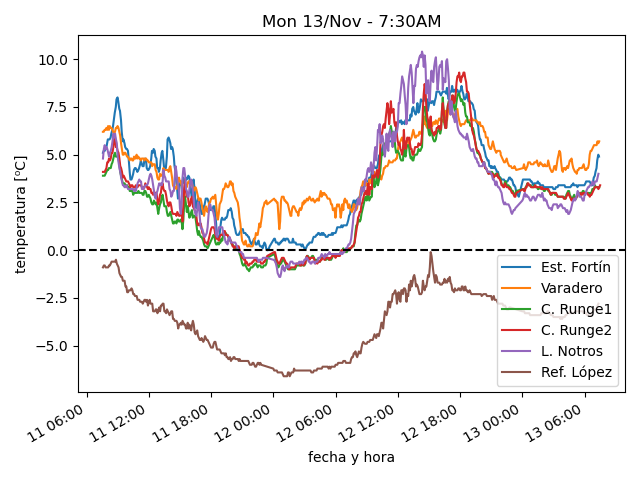
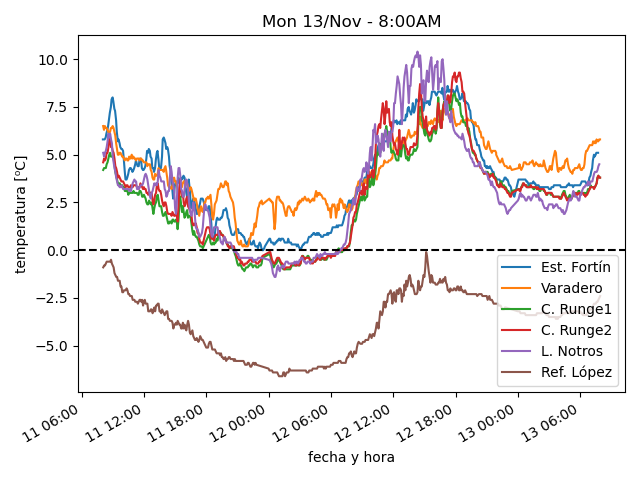
actualiza datos

diff --git a/estaciones/estacion2.html b/estaciones/estacion2.html
@@ -18,32 +18,32 @@
     </tr>
     <tr>
      <td class="stats_data">
-      7:24AM
+      7:54AM
      </td>
     </tr>
     <tr>
      <td class="stats_data">
-      5.7⁰C
+      5.8⁰C
      </td>
     </tr>
     <tr>
      <td class="stats_data">
-      1.8⁰C
+      2.5⁰C
      </td>
     </tr>
     <tr>
      <td class="stats_data">
-      76.3%
+      79.2%
      </td>
     </tr>
     <tr>
      <td class="stats_data">
-      1020.32hPa
+      1020.01hPa
      </td>
     </tr>
     <tr>
      <td class="stats_data">
-      29.1/36.3 km/hr NW
+      34.0/40.1 km/hr NW
      </td>
     </tr>
     <tr>
@@ -53,12 +53,12 @@
     </tr>
     <tr>
      <td class="stats_data">
-      0.0
+      1.0
      </td>
     </tr>
     <tr>
      <td class="stats_data">
-      73.3 W/m²
+      156.6 W/m²
      </td>
     </tr>
    </tbody>

diff --git a/estaciones/estacion3.html b/estaciones/estacion3.html
@@ -18,32 +18,32 @@
     </tr>
     <tr>
      <td class="stats_data">
-      7:24AM
+      7:54AM
      </td>
     </tr>
     <tr>
      <td class="stats_data">
-      3.3⁰C
+      3.8⁰C
      </td>
     </tr>
     <tr>
      <td class="stats_data">
-      -0.5⁰C
+      0.2⁰C
      </td>
     </tr>
     <tr>
      <td class="stats_data">
-      76.0%
+      77.0%
      </td>
     </tr>
     <tr>
      <td class="stats_data">
-      1005.11hPa
+      1004.74hPa
      </td>
     </tr>
     <tr>
      <td class="stats_data">
-      10.1/14.4 km/hr WNW
+      8.9/12.8 km/hr W
      </td>
     </tr>
     <tr>
@@ -53,12 +53,12 @@
     </tr>
     <tr>
      <td class="stats_data">
-      0.0
+      1.0
      </td>
     </tr>
     <tr>
      <td class="stats_data">
-      43.3 W/m²
+      137.9 W/m²
      </td>
     </tr>
    </tbody>

diff --git a/estaciones/estacion4.html b/estaciones/estacion4.html
@@ -18,32 +18,32 @@
     </tr>
     <tr>
      <td class="stats_data">
-      7:29AM
+      7:54AM
      </td>
     </tr>
     <tr>
      <td class="stats_data">
-      3.4⁰C
+      3.8⁰C
      </td>
     </tr>
     <tr>
      <td class="stats_data">
-      -1.2⁰C
+      -0.6⁰C
      </td>
     </tr>
     <tr>
      <td class="stats_data">
-      72.3%
+      72.7%
      </td>
     </tr>
     <tr>
      <td class="stats_data">
-      1013.92hPa
+      1013.61hPa
      </td>
     </tr>
     <tr>
      <td class="stats_data">
-      3.1/4.8 km/hr SW
+      4.1/6.6 km/hr SW
      </td>
     </tr>
     <tr>
@@ -53,12 +53,12 @@
     </tr>
     <tr>
      <td class="stats_data">
-      0.0
+      1.0
      </td>
     </tr>
     <tr>
      <td class="stats_data">
-      51.6 W/m²
+      163.6 W/m²
      </td>
     </tr>
    </tbody>

diff --git a/estaciones/estacion6.html b/estaciones/estacion6.html
@@ -18,17 +18,17 @@
     </tr>
     <tr>
      <td class="stats_data">
-      7:20AM
+      7:55AM
      </td>
     </tr>
     <tr>
      <td class="stats_data">
-      -2.8⁰C
+      -2.4⁰C
      </td>
     </tr>
     <tr>
      <td class="stats_data">
-      -3.7⁰C
+      -3.4⁰C
      </td>
     </tr>
     <tr>
@@ -38,12 +38,12 @@
     </tr>
     <tr>
      <td class="stats_data">
-      1018.73hPa
+      1018.59hPa
      </td>
     </tr>
     <tr>
      <td class="stats_data">
-      3.2/11.3 km/hr ENE
+      6.4/12.9 km/hr NE
      </td>
     </tr>
     <tr>
@@ -58,7 +58,7 @@
     </tr>
     <tr>
      <td class="stats_data">
-      907.0 W/m²
+      909.0 W/m²
      </td>
     </tr>
    </tbody>

diff --git a/estaciones/estacion1.html b/estaciones/estacion1.html
@@ -18,17 +18,17 @@
     </tr>
     <tr>
      <td class="stats_data">
-      7:23AM
+      7:43AM
      </td>
     </tr>
     <tr>
      <td class="stats_data">
-      4.9⁰C
+      5.1⁰C
      </td>
     </tr>
     <tr>
      <td class="stats_data">
-      -1.8⁰C
+      -1.6⁰C
      </td>
     </tr>
     <tr>
@@ -43,7 +43,7 @@
     </tr>
     <tr>
      <td class="stats_data">
-      15.3/31.4 km/hr W
+      13.7/25.7 km/hr WNW
      </td>
     </tr>
     <tr>
@@ -58,7 +58,7 @@
     </tr>
     <tr>
      <td class="stats_data">
-      54.0 W/m²
+      65.0 W/m²
      </td>
     </tr>
    </tbody>

diff --git a/estaciones/estacion5.html b/estaciones/estacion5.html
@@ -18,17 +18,17 @@
     </tr>
     <tr>
      <td class="stats_data">
-      7:20AM
+      7:50AM
      </td>
     </tr>
     <tr>
      <td class="stats_data">
-      4.0⁰C
+      4.5⁰C
      </td>
     </tr>
     <tr>
      <td class="stats_data">
-      -0.3⁰C
+      0.2⁰C
      </td>
     </tr>
     <tr>
@@ -38,12 +38,12 @@
     </tr>
     <tr>
      <td class="stats_data">
-      1018.05hPa
+      1017.68hPa
      </td>
     </tr>
     <tr>
      <td class="stats_data">
-      0.0/3.5 km/hr N
+      0.0/2.6 km/hr N
      </td>
     </tr>
     <tr>
